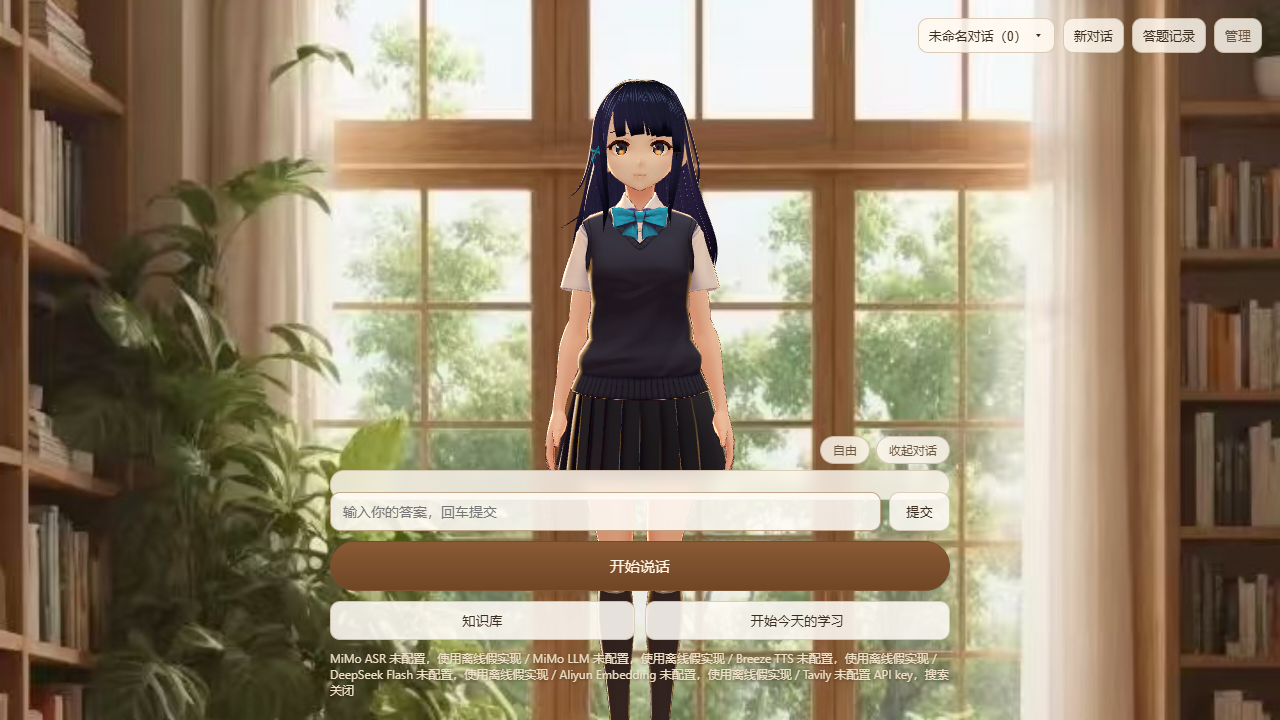
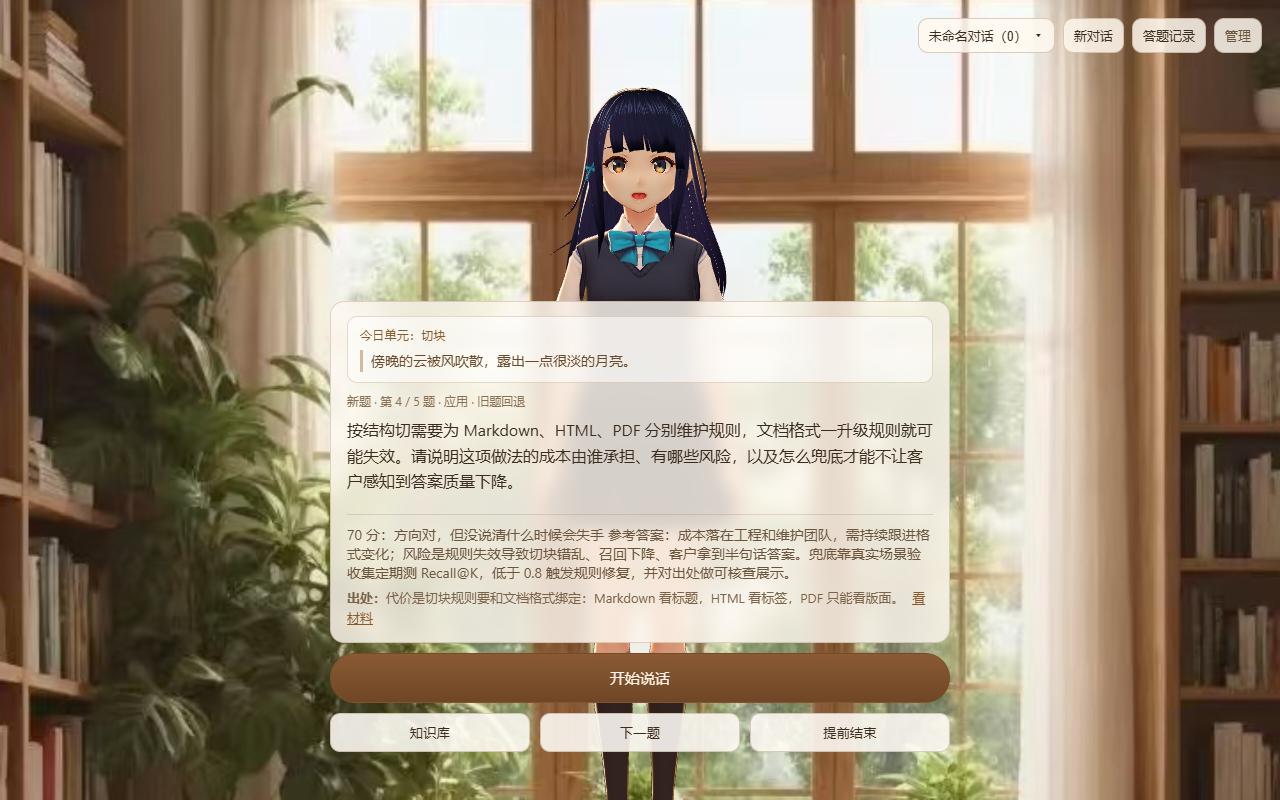
docs: 首页截图换成学习单元答题中的画面
- 替换 idle 首页截图，直接展示题目、评分反馈与材料出处
- README 图片 alt 同步

diff --git a/README.md b/README.md
@@ -3,7 +3,7 @@
 MOMO 是一个本地优先的 AI 学习搭子：材料经摄取成为带出处的知识，开始学习时按「最近失手 → 掌握度最低」
 选题，一场 5 题逐题评分；自由对话可查本地知识库，必要时联网搜索。语音与 3D 形象随仓库分发。
 
-![MOMO 学习搭子](docs/assets/screenshot-home.png)
+![MOMO 学习搭子 · 学习单元逐题评分](docs/assets/screenshot-home.png)
 
 **English** — MOMO is a local-first AI study companion. Feed it your notes, get cited knowledge,
 study in 5-question units with per-answer scoring, and talk freely with retrieval-backed answers.
